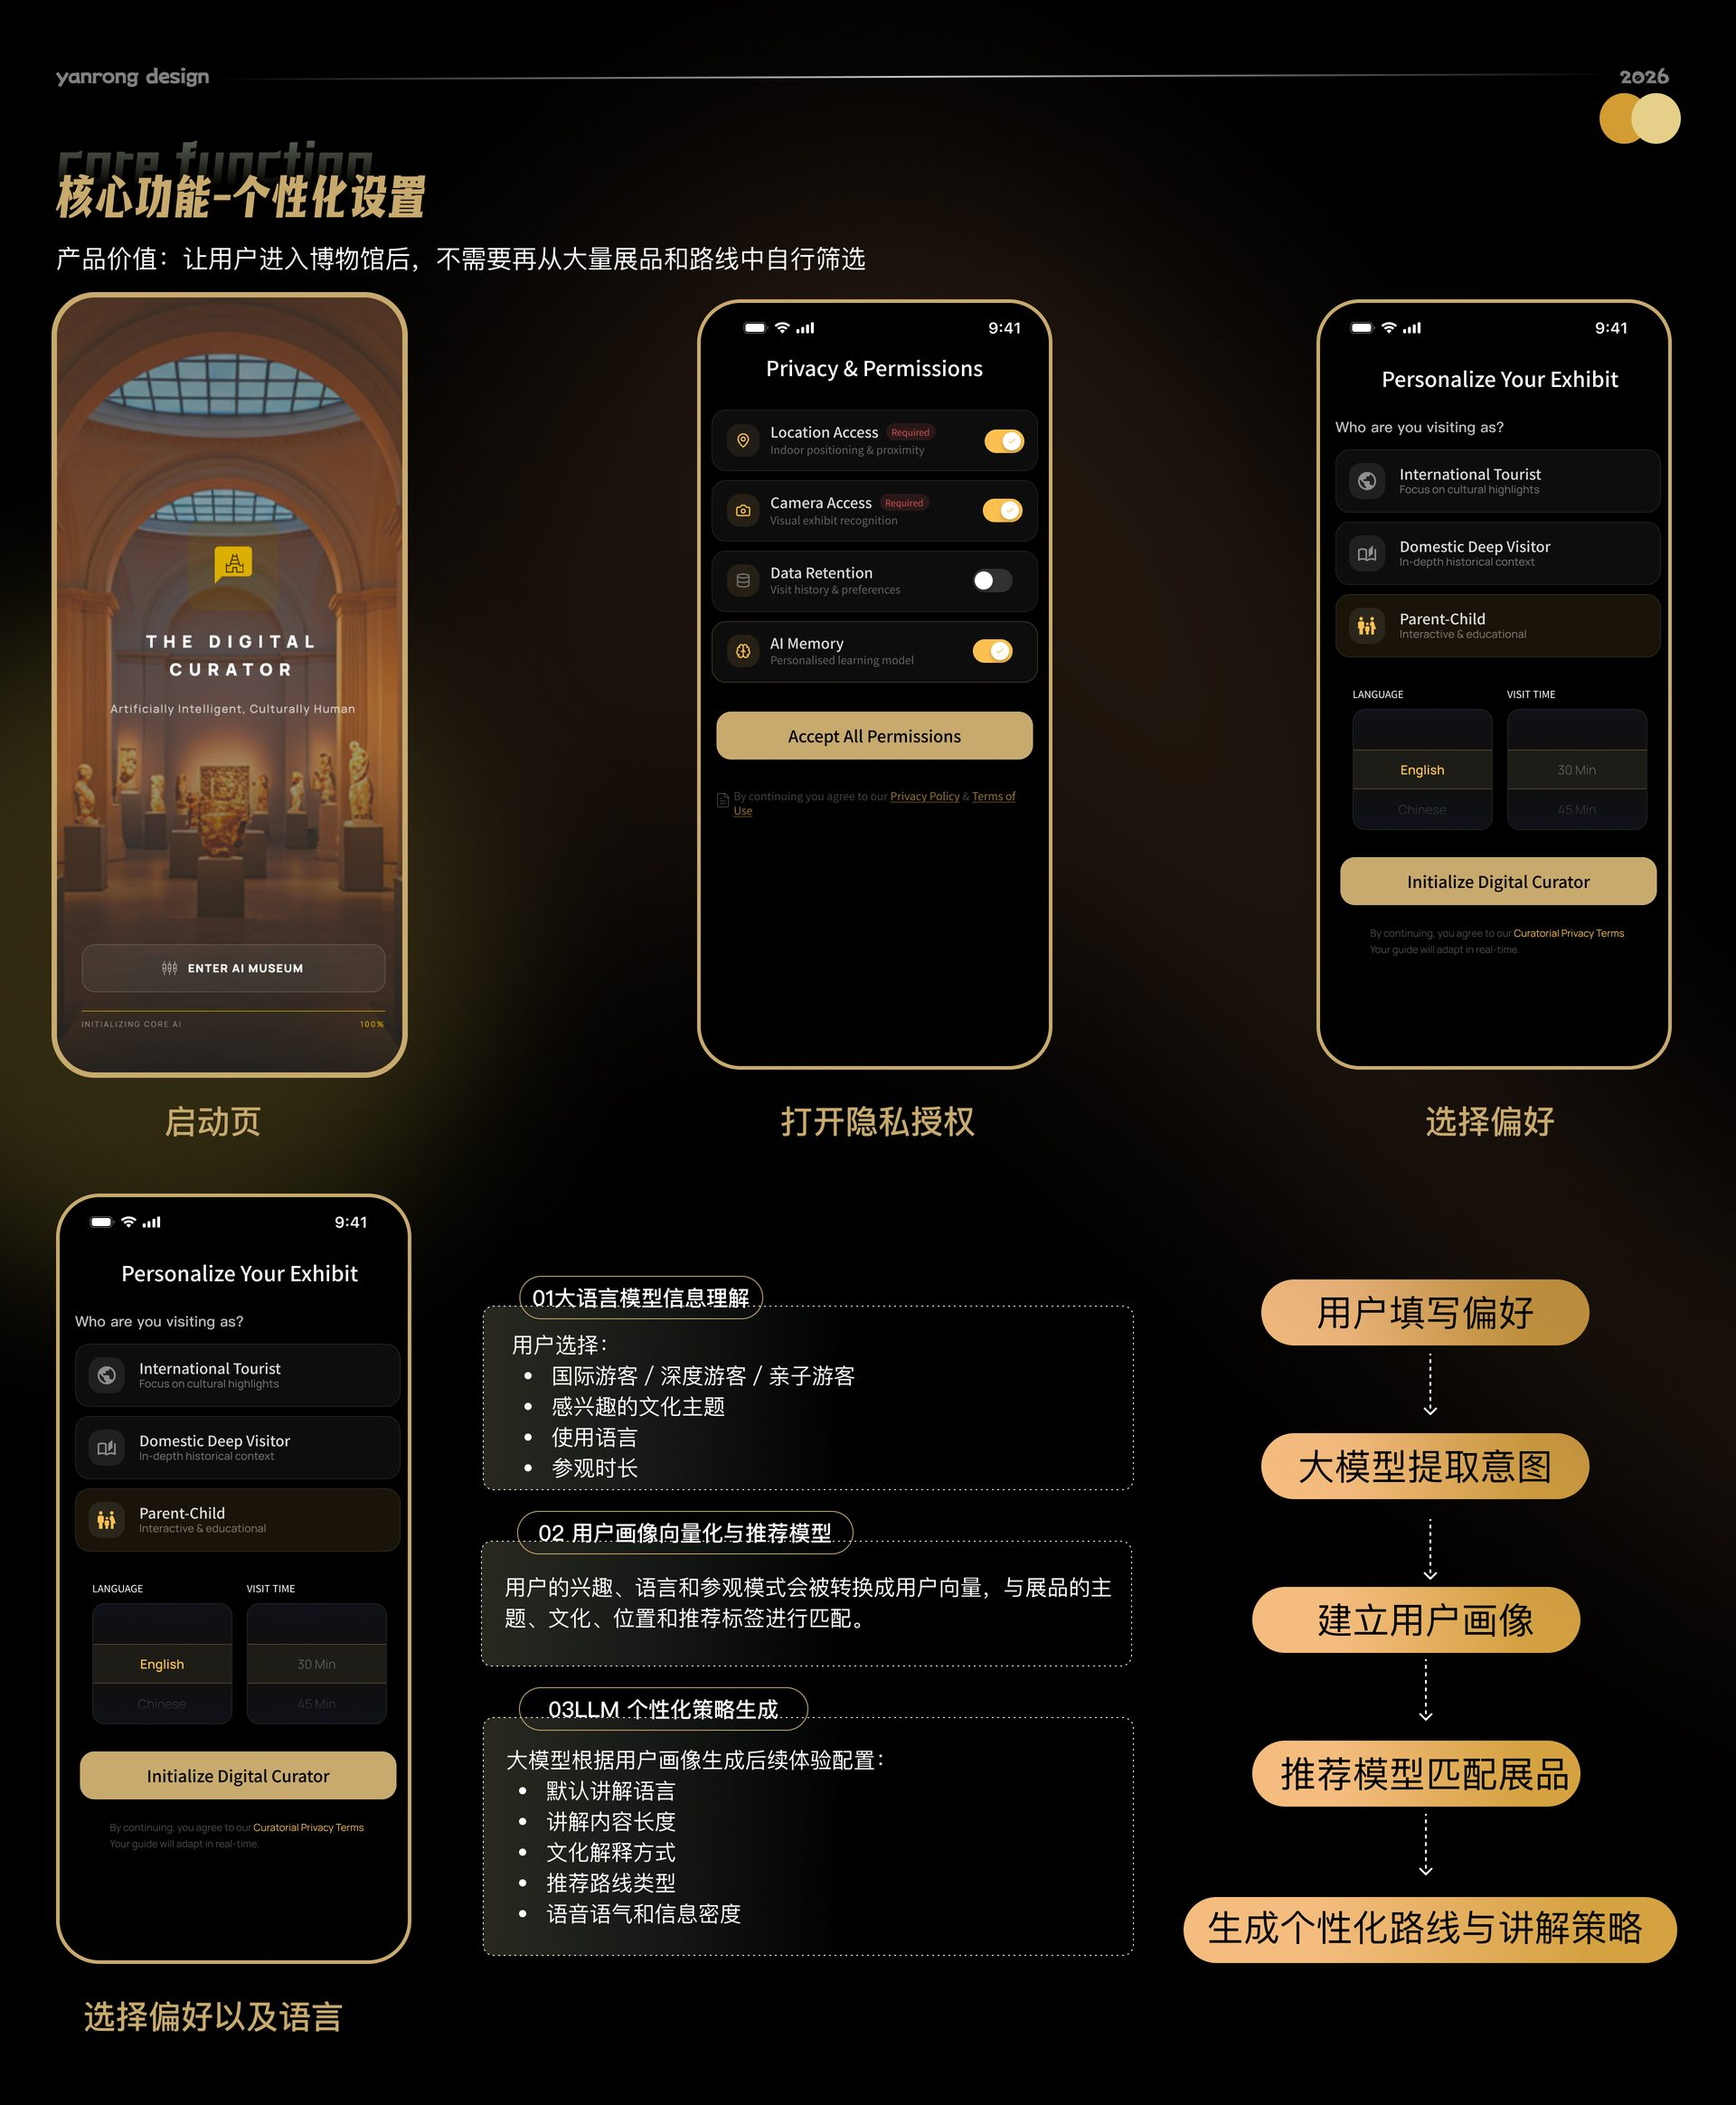
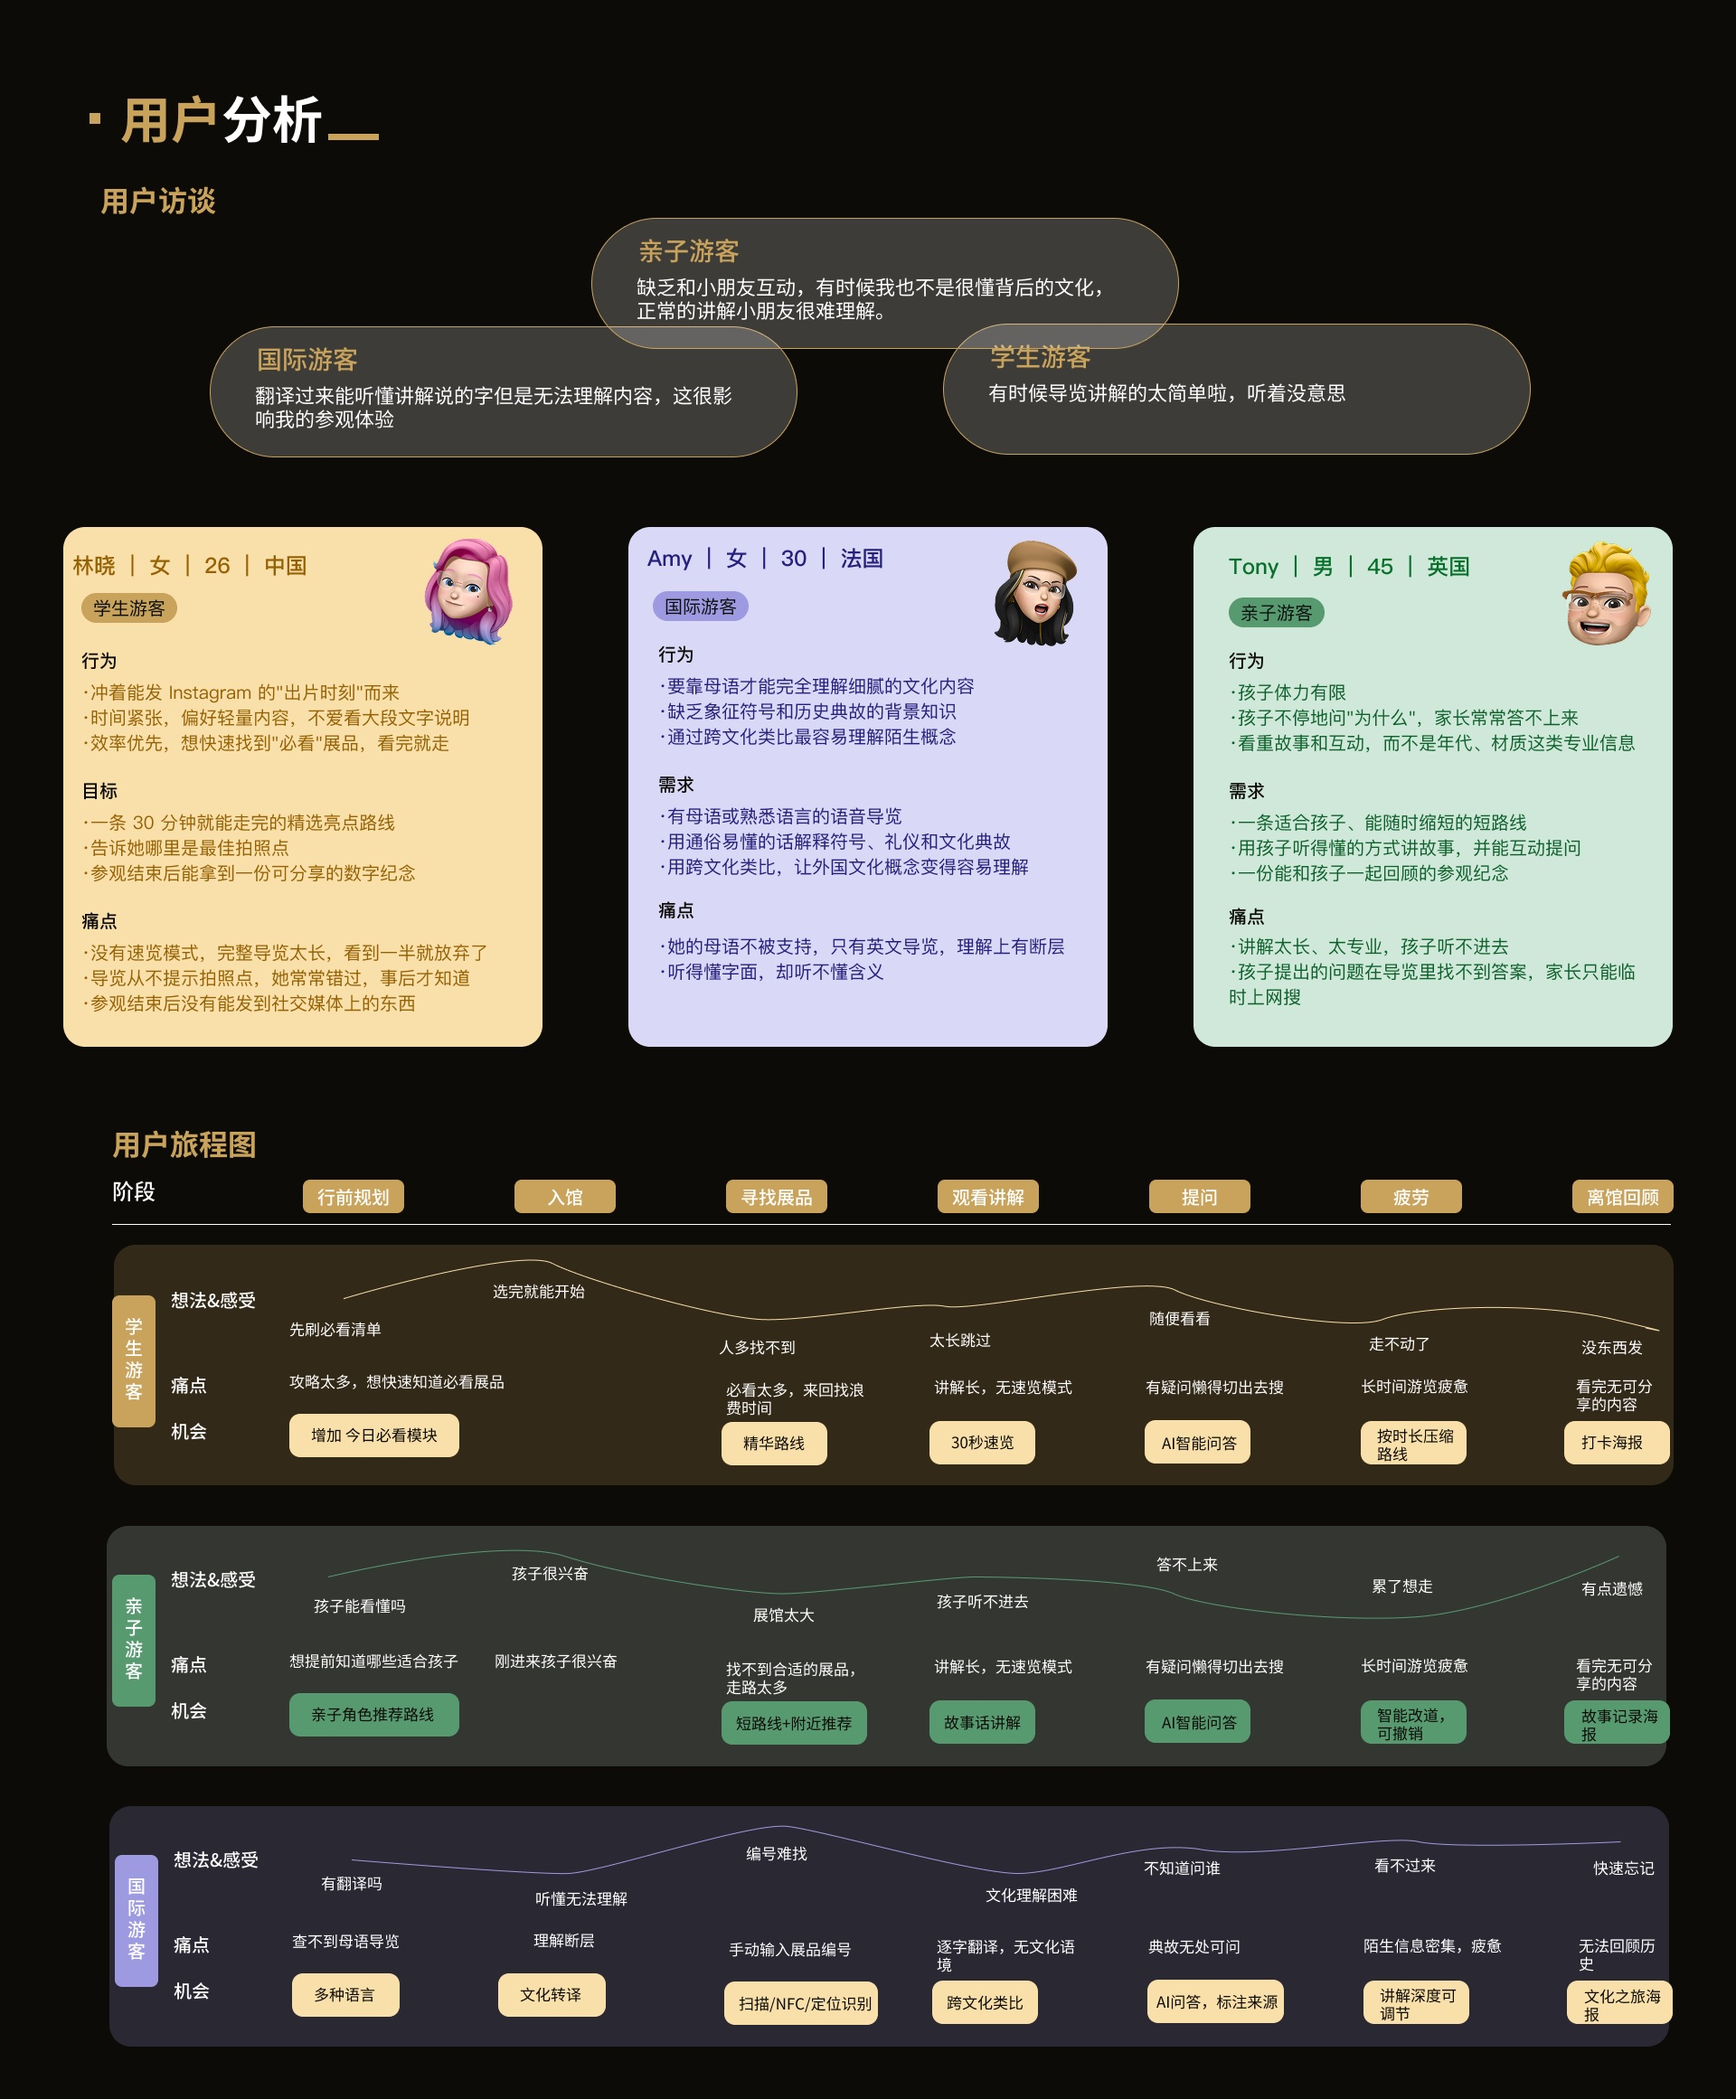
Muse AI: swap the detail pages for the 3.1–4.0 deck
Replace the six old detail images with the ten slides exported from the
project deck (封面 / 项目背景 / 用户分析 / 竞品分析 / 设计策略 / 核心功能一–五).
3.7 was missing from the export folder, so it is rendered from the Figma
frame directly. Regenerate the project-card cover from the new 3.1 so the
view-transition morph still lands on the same image, and bump the cache
params on both pages.

diff --git a/project-muse.html b/project-muse.html
@@ -51,12 +51,16 @@
   <main class="detail-main">
     <!-- Detail page images, stacked top to bottom -->
     <div class="detail-pages">
-      <img src="src/projects/muse/01.jpg" alt="Muse AI 封面" width="1920" height="1080" style="view-transition-name: muse-cover" />
-      <img src="src/projects/muse/02.jpg" alt="项目背景" width="1920" height="1080" decoding="async" />
-      <img src="src/projects/muse/03.jpg" alt="核心功能 个性化设置" width="1920" height="2328" loading="lazy" decoding="async" />
-      <img src="src/projects/muse/04.jpg" alt="核心功能 多模态展品识别" width="1920" height="2207" loading="lazy" decoding="async" />
-      <img src="src/projects/muse/05.jpg" alt="核心功能 动态 AI 讲解与路线规划" width="1920" height="2167" loading="lazy" decoding="async" />
-      <img src="src/projects/muse/06.jpg?v=2" alt="原型展示" width="1920" height="3991" loading="lazy" decoding="async" />
+      <img src="src/projects/muse/01.jpg?v=3" alt="封面 · 智能博物馆导览小程序" width="1920" height="1080" style="view-transition-name: muse-cover" />
+      <img src="src/projects/muse/02.jpg?v=3" alt="项目背景 · 产品定义与访客构成" width="1920" height="1080" loading="lazy" decoding="async" />
+      <img src="src/projects/muse/03.jpg?v=3" alt="用户分析 · 用户访谈、角色卡与用户旅程图" width="1920" height="2322" loading="lazy" decoding="async" />
+      <img src="src/projects/muse/04.jpg?v=3" alt="竞品分析 · 五款导览产品对比与机会点" width="1920" height="1080" loading="lazy" decoding="async" />
+      <img src="src/projects/muse/05.jpg?v=3" alt="设计策略 · 痛点到策略的映射" width="1920" height="1080" loading="lazy" decoding="async" />
+      <img src="src/projects/muse/06.jpg?v=3" alt="核心功能一 · 个性化定制" width="1920" height="1080" loading="lazy" decoding="async" />
+      <img src="src/projects/muse/07.jpg?v=3" alt="核心功能二 · 展品识别" width="1920" height="1080" loading="lazy" decoding="async" />
+      <img src="src/projects/muse/08.jpg?v=3" alt="核心功能三 · 生成式讲解" width="1920" height="1080" loading="lazy" decoding="async" />
+      <img src="src/projects/muse/09.jpg?v=3" alt="核心功能四 · 动态规划路线" width="1920" height="1080" loading="lazy" decoding="async" />
+      <img src="src/projects/muse/10.jpg?v=3" alt="核心功能五 · 报告分享" width="1920" height="1534" loading="lazy" decoding="async" />
     </div>
 
     <div class="detail-end">

diff --git a/index.html b/index.html
@@ -22,7 +22,7 @@
   <link rel="prefetch" href="src/projects/bodycode-admin/01.jpg?v=2" as="image" />
   <link rel="prefetch" href="src/projects/grow/01.jpg?v=2" as="image" />
   <link rel="prefetch" href="src/projects/sugo/01.jpg" as="image" />
-  <link rel="prefetch" href="src/projects/muse/01.jpg" as="image" />
+  <link rel="prefetch" href="src/projects/muse/01.jpg?v=3" as="image" />
   <script>
     // cross-page view transitions to project pages: a skipped transition rejects these promises, which is expected
     (function () {
@@ -264,7 +264,7 @@
           </li>
           <li class="arc-card" data-index="3">
             <a class="arc-card-face" href="project-muse.html" aria-label="查看 Muse AI">
-              <span class="arc-card-media"><img src="src/jpg/muse-cover.jpg?v=1" alt="Muse AI 封面" loading="lazy" style="view-transition-name: muse-cover" /></span>
+              <span class="arc-card-media"><img src="src/jpg/muse-cover.jpg?v=2" alt="Muse AI 封面" loading="lazy" style="view-transition-name: muse-cover" /></span>
               <span class="arc-card-body">
                 <span class="arc-card-index">04</span>
                 <span class="arc-card-title">Muse AI</span>
